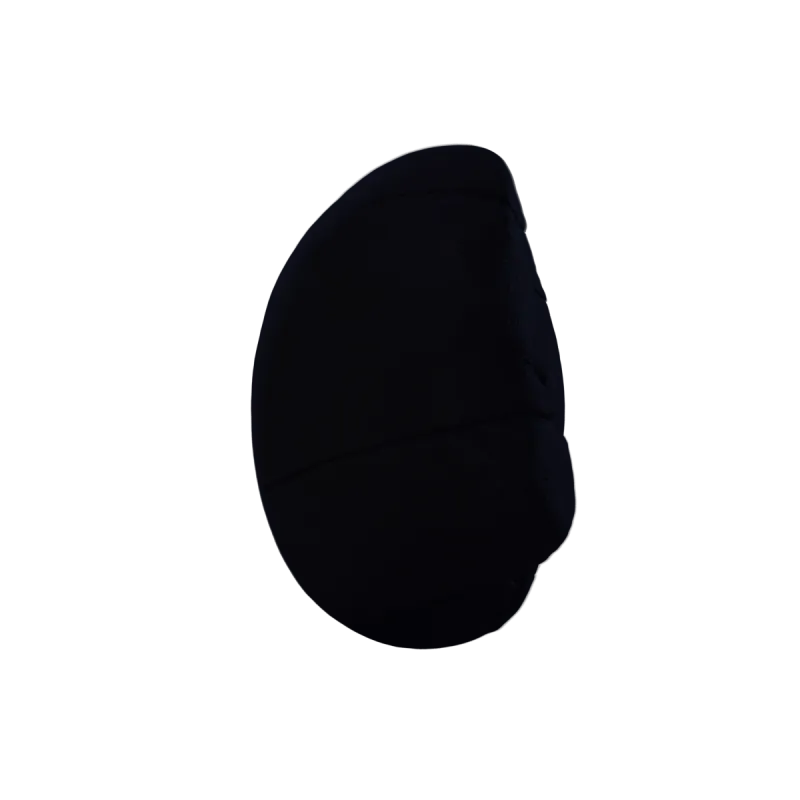
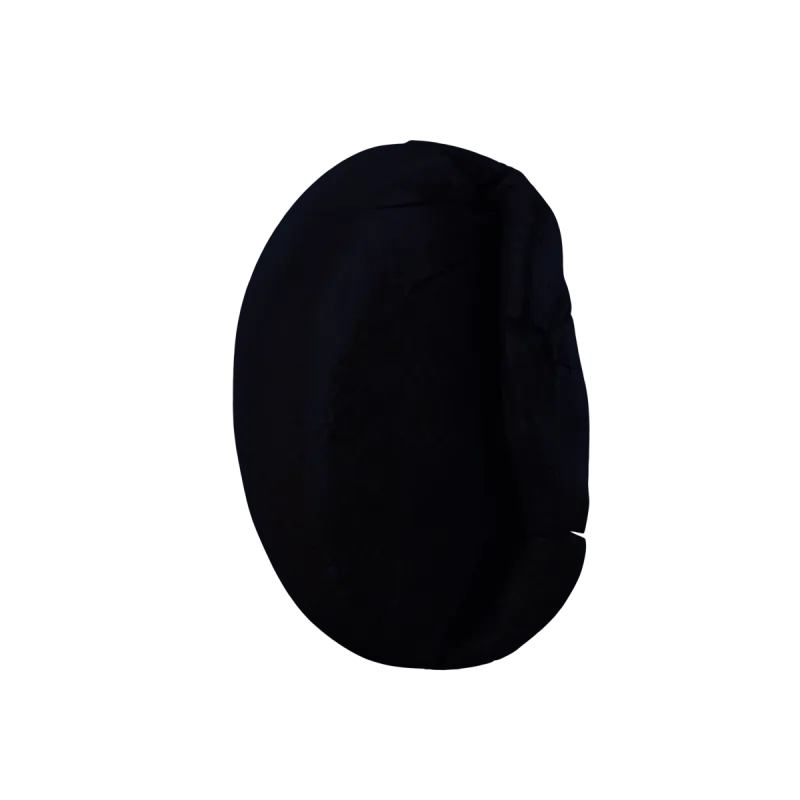
Om MIAN 00: bønnen starter forfra, vender seg og lander forfra på dag 1
Claude-Session: https://claude.ai/code/session_01PF7jBPAxpqcDsWWAWZJkUX

Changed region(s): [[0.2812, 0.1562, 0.75, 0.8438]]

diff --git a/assets/om-mian.js b/assets/om-mian.js
@@ -49,7 +49,7 @@
   // the big bean: lit picture (the turning sequence on big screens, a still on small ones) with the night picture on top
   const still = light || reduce;
   const stor = el('div', 'k00-stor' + (reduce ? ' fast' : ''), `
-    ${still ? `<img class="k00-lag" src="${ROOT}frames/bonne-800/bonne_001.webp" alt="" draggable="false">`
+    ${still ? `<img class="k00-lag" src="${ROOT}frames/bonne-800/bonne_150.webp" alt="" draggable="false">`
             : `<canvas class="k00-lag" width="800" height="800"></canvas>`}
     <img class="k00-lag k00-natt" src="${ROOT}assets/om-mian/bonne-natt.webp" alt="" draggable="false">`);
   stor.setAttribute('aria-hidden', 'true');
@@ -82,14 +82,14 @@
   const cv0 = stor.querySelector('canvas'), ctx0 = cv0 ? cv0.getContext('2d') : null;
   function loadFrames() {
     const load = i => { const im = new Image(); im.decoding = 'async'; im.src = `${ROOT}frames/bonne-800/bonne_${String(i + 1).padStart(3, '0')}.webp`;
-                        im.onload = () => { frames0[i] = im; if (i === 0 || i === S00.want) { S00.frame = -1; queue(); } }; };
-    load(0);
-    const rest = () => { for (let i = 1; i < N0; i++) load(i); };
+                        im.onload = () => { frames0[i] = im; if (i === N0 - 1 || i === S00.want) { S00.frame = -1; queue(); } }; };
+    load(N0 - 1);                                     // the front view: where the bean starts and ends
+    const rest = () => { for (let i = N0 - 2; i >= 0; i--) load(i); };
     'requestIdleCallback' in window ? requestIdleCallback(rest, { timeout: 2500 }) : setTimeout(rest, 800);
   }
   function drawFrame(i) {
     S00.want = i;
-    while (i > 0 && !frames0[i]) i--;                 // nearest loaded frame before this one
+    while (i < N0 - 1 && !frames0[i]) i++;            // nearest loaded frame after this one (they load from the front view backwards)
     if (!frames0[i] || i === S00.frame) return;
     S00.frame = i;
     ctx0.clearRect(0, 0, 800, 800); ctx0.drawImage(frames0[i], 0, 0, 800, 800);
@@ -141,7 +141,11 @@
     const landed = y >= S01.top;                                          // from here the bean in the calendar cell takes over
     set0('o', stor, 'opacity', landed ? '0' : '1');
     if (S00.last.landed !== landed) { S00.last.landed = landed; kal.classList.toggle('har-bonne', landed); }
-    if (ctx0) drawFrame(Math.round(clamp((y - (S00.top + S00.dist * .3)) / Math.max(1, S01.top - (S00.top + S00.dist * .3))) * (N0 - 1)));
+    // the bean starts seen from the front, turns away and swings back, so it also lands front up on day 1
+    if (ctx0) {
+      const u = clamp((y - (S00.top + S00.dist * .3)) / Math.max(1, S01.top - (S00.top + S00.dist * .3)));
+      drawFrame(N0 - 1 - Math.round((1 - Math.cos(u * 2 * Math.PI)) / 2 * 112));
+    }
     set0('natt', P0.natt, 'opacity', (1 - lamp).toFixed(3));
     set0('lys', P0.lys, 'opacity', (lamp * (1 - e)).toFixed(3));
     set0('glod', P0.glod, 'opacity', (lamp * (1 - e)).toFixed(3));
